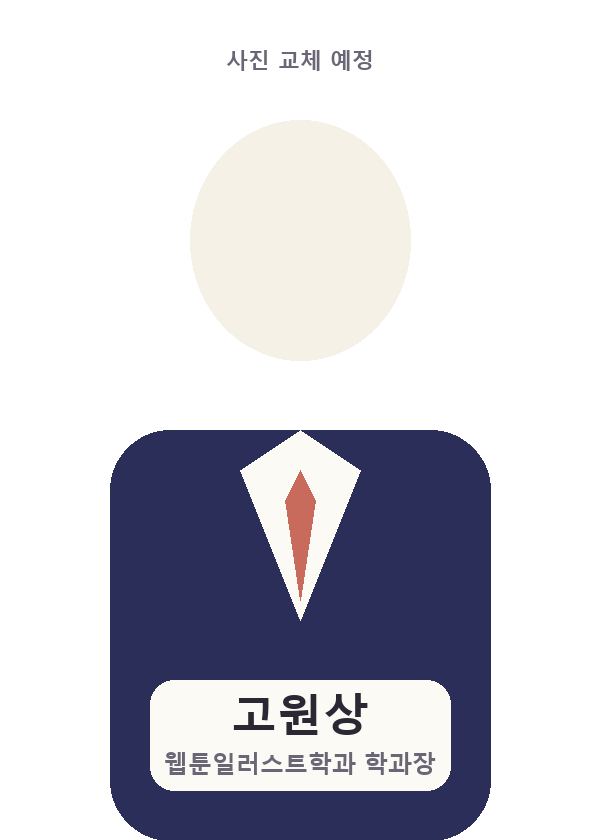
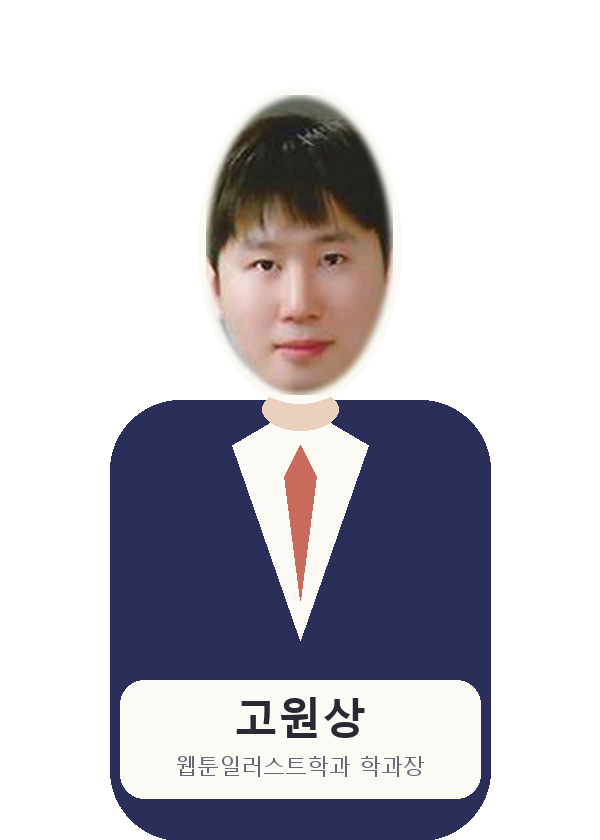
feat(gtec001): 개회식 진행자 — 고원상 학과장 실제 얼굴 초상, 졸업전시 위원장 안소희(작가 캐릭터)로 교체, 호칭 변경

diff --git a/경기과학기술대학교/gtec001/site/src/pages/GalleryPage.tsx b/경기과학기술대학교/gtec001/site/src/pages/GalleryPage.tsx
@@ -114,7 +114,7 @@ export default function GalleryPage() {
         <div className="drawer-h"><span>부스로 바로 가기</span><button className="panel-x" onClick={() => setDrawer(false)}>✕</button></div>
         <div className="drawer-list">
           <button onClick={() => { worldRef.current?.teleportLobby(); setDrawer(false); }}><b>⌂ 로비 · 입구</b></button>
-          <button onClick={() => { setDrawer(false); setCeremony(true); }}><b>🎤 개회식 안내</b><span>학과장 · 사회자</span></button>
+          <button onClick={() => { setDrawer(false); setCeremony(true); }}><b>🎤 개회식 안내</b><span>학과장 · 졸업전시 위원장</span></button>
           <button onClick={() => nav("/photo")}><b>📷 포토존</b><span>작가 캐릭터와 사진 찍기</span></button>
           <button onClick={() => nav("/guestbook")}><b>✎ 방명록</b><span>한마디 남기기</span></button>
           {DEPTS.map((d) => (
@@ -134,7 +134,7 @@ export default function GalleryPage() {
   );
 }
 
-// 개회식: 학과장과 사회자가 번갈아 진행. 한 줄씩 넘긴다.
+// 개회식: 학과장과 졸업전시 위원장이 번갈아 진행. 한 줄씩 넘긴다.
 function CeremonyPanel({ onClose, onEnter }: { onClose: () => void; onEnter: () => void }) {
   const [i, setI] = useState(0);
   const cur = CEREMONY[i]; const h = hostOf(cur.who); const last = i === CEREMONY.length - 1;
@@ -149,7 +149,7 @@ function CeremonyPanel({ onClose, onEnter }: { onClose: () => void; onEnter: () 
           {!last ? <button className="btn primary small" onClick={() => setI(i + 1)}>다음 →</button> : <button className="btn primary small" onClick={onEnter}>전시장 입장 → 로비로</button>}
           <button className="btn small ghost" onClick={onEnter}>건너뛰고 입장</button>
         </div>
-        <p className="small">학과장·사회자 사진은 public/hosts/dean.png · mc.png 로 교체 예정입니다.</p>
+        <p className="small">진행: 학과장 고원상 · 졸업전시 위원장 안소희(웹툰 「좀순愛」 작가)</p>
       </div>
     </div>
   );

diff --git a/경기과학기술대학교/gtec001/site/src/pages/HomePage.tsx b/경기과학기술대학교/gtec001/site/src/pages/HomePage.tsx
@@ -76,7 +76,7 @@ export default function HomePage() {
           <div className="hosts">{HOSTS.map((h) => <div key={h.id} className="host on"><img src={h.img} alt={h.name} /><b>{h.name}</b><span>{h.role}</span></div>)}</div>
           <div>
             <div className="eyebrow">Ceremony</div>
-            <h2 className="h2">학과장과 사회자가 개회식을 진행합니다</h2>
+            <h2 className="h2">학과장과 졸업전시 위원장이 개회식을 진행합니다</h2>
             <p className="lead">전시장 입구에서 두 분이 기다립니다. 눌러서 개회식 안내를 듣고 로비로 들어가세요. 로비 왼쪽 포토존에서는 작가 캐릭터와 사진을 찍을 수 있습니다.</p>
             <div className="row"><Link to="/gallery" className="btn primary">입구에서 개회식 보기 →</Link><Link to="/photo" className="btn">📷 포토존</Link></div>
           </div>

diff --git a/경기과학기술대학교/gtec001/site/scripts/make_hosts.py b/경기과학기술대학교/gtec001/site/scripts/make_hosts.py
@@ -1,0 +1,61 @@
+"""개회식 진행 캐릭터 초상 — 학과장 고원상(본인 사진 얼굴 + 정장 몸), 졸업전시 위원장 안소희(작가 캐릭터 카드)
+→ public/hosts/dean.png · public/hosts/mc.png (600×840, 투명 배경)   실행: python -X utf8 scripts/make_hosts.py"""
+from PIL import Image, ImageDraw, ImageFont, ImageFilter, ImageOps, ImageEnhance
+import os, cv2, numpy as np
+HERE = os.path.dirname(os.path.abspath(__file__)); SITE = os.path.join(HERE, "..")
+PHOTO = os.path.join(SITE, "..", "..", "KakaoTalk_20261024_124652097.jpg")
+AVATAR = os.path.join(SITE, "public", "artists", "we18", "avatar.jpg")
+W, H = 600, 840
+F = lambda f, s: ImageFont.truetype(f"C:/Windows/Fonts/{f}", s)
+ink = (43, 40, 51, 255); soft = (107, 102, 117, 255); cream = (252, 250, 245, 255)
+
+def plate(d, name, role, y=680, color=cream):
+    d.rounded_rectangle((120, y, 480, y + 118), radius=24, fill=color)
+    d.text((300, y + 36), name, font=F("malgunbd.ttf", 44), fill=ink, anchor="mm")
+    d.text((300, y + 86), role, font=F("malgun.ttf", 22), fill=soft, anchor="mm")
+
+# ---------- 학과장: 사진에서 얼굴만 ----------
+ph = ImageOps.exif_transpose(Image.open(PHOTO)).convert("RGB")
+arr = cv2.cvtColor(np.array(ph), cv2.COLOR_RGB2BGR)
+faces = []
+try:
+    casc = cv2.CascadeClassifier(cv2.data.haarcascades + "haarcascade_frontalface_default.xml")
+    faces = casc.detectMultiScale(cv2.cvtColor(arr, cv2.COLOR_BGR2GRAY), 1.1, 4)
+except Exception as ex: print("얼굴 검출 모듈 없음 → 증명사진 기준 고정 좌표 사용:", ex)
+if len(faces): x, y, w, h = max(faces, key=lambda f: f[2] * f[3])
+else: x, y, w, h = int(ph.width * 0.30), int(ph.height * 0.17), int(ph.width * 0.43), int(ph.height * 0.47)  # 증명사진(205×273) 얼굴 위치
+# 얼굴 상자보다 넉넉히(머리카락·턱 포함) 타원으로 자른다
+cx, cy = x + w / 2, y + h * 0.5; rw, rh = w * 0.72, h * 0.95
+box = (int(cx - rw), int(cy - rh - h * 0.05), int(cx + rw), int(cy + rh))
+box = (max(0, box[0]), max(0, box[1]), min(ph.width, box[2]), min(ph.height, box[3]))
+if not len(faces): box = (52, 16, 158, 186)  # 증명사진: 머리 윗부분~턱, 어깨·정장은 제외("얼굴만")
+face = ph.crop(box)
+# 작은 증명사진이라 4배 확대 + 약간의 선명도
+face = face.resize((face.width * 4, face.height * 4), Image.LANCZOS); face = ImageEnhance.Sharpness(face).enhance(1.3)
+target_h = 300; s = target_h / face.height; face = face.resize((int(face.width * s), target_h), Image.LANCZOS)
+mask = Image.new("L", face.size, 0); ImageDraw.Draw(mask).ellipse((2, 2, face.width - 3, face.height - 3), fill=255); mask = mask.filter(ImageFilter.GaussianBlur(3))
+face.putalpha(mask)
+im = Image.new("RGBA", (W, H), (0, 0, 0, 0)); d = ImageDraw.Draw(im)
+# 몸: 남색 정장 + 흰 셔츠 + 넥타이(기존 자리표시와 같은 실루엣)
+d.rounded_rectangle((110, 400, 490, 840), radius=70, fill=(43, 46, 88, 255))
+d.polygon([(300, 405), (232, 445), (300, 640), (368, 445)], fill=(252, 250, 245, 255))
+d.polygon([(300, 445), (284, 476), (300, 600), (316, 476)], fill=(200, 107, 92, 255))
+d.ellipse((262, 388, 338, 430), fill=(236, 208, 190, 255))  # 목
+# 얼굴 뒤 흰 테두리(스티커 느낌)
+ring = Image.new("RGBA", (W, H), (0, 0, 0, 0)); rd = ImageDraw.Draw(ring)
+fx, fy = int(300 - face.width / 2), int(395 - face.height)
+rd.ellipse((fx - 8, fy - 8, fx + face.width + 8, fy + face.height + 8), fill=(252, 250, 245, 255)); im = Image.alpha_composite(im, ring)
+im.alpha_composite(face, (fx, fy)); d = ImageDraw.Draw(im)
+plate(d, "고원상", "웹툰일러스트학과 학과장")
+im.save(os.path.join(SITE, "public", "hosts", "dean.png")); print("dean ok, face box", box)
+
+# ---------- 졸업전시 위원장 안소희: 작가 캐릭터 카드 ----------
+av = Image.open(AVATAR).convert("RGB").resize((470, 470), Image.LANCZOS)
+im2 = Image.new("RGBA", (W, H), (0, 0, 0, 0)); d2 = ImageDraw.Draw(im2)
+d2.rounded_rectangle((50, 40, 550, 640), radius=40, fill=cream)
+d2.rounded_rectangle((50, 40, 550, 70), radius=14, fill=(233, 138, 168, 255))  # 웹툰 분홍 띠
+card = Image.new("RGBA", av.size, (0, 0, 0, 0)); cm = Image.new("L", av.size, 0); ImageDraw.Draw(cm).rounded_rectangle((0, 0, 469, 469), radius=30, fill=255); card.paste(av, (0, 0)); card.putalpha(cm)
+im2.alpha_composite(card, (65, 95)); d2 = ImageDraw.Draw(im2)
+d2.text((300, 605), "웹툰 「좀순愛」 작가 · 부스 WE18", font=F("malgun.ttf", 22), fill=soft, anchor="mm")
+plate(d2, "안소희", "졸업전시 위원장")
+im2.save(os.path.join(SITE, "public", "hosts", "mc.png")); print("mc ok")

diff --git a/경기과학기술대학교/gtec001/process.md b/경기과학기술대학교/gtec001/process.md
@@ -28,6 +28,7 @@
 - 00:00 사이트 소스 16파일 작성, tsc 통과. 첫 스크린샷에서 표지가 책등으로 나와 히어로 깨짐 + 3D 시작 시점이 뒤(입구 벽)를 봄 → 수정. 히어로 보조 버튼 글자색 보정.
 - 00:10 재검수 통과. 문서(README·자료정리·기획서·대본·process·wiki) 작성. 00:20 사용자 미리보기 안내.
 - 01:20 휴대폰 미리보기 QR 3장(`qr/`, PC 주소 192.168.42.36:5201) 생성, 입구 QR 첨부해 사용자 메일로 링크 발송. 부하 시험(요청 #7)과 포토존 QR(요청 #8) 반영.
+- 13:30 진행자 교체(요청 #12·#13): 학과장 고원상 = 본인 증명사진(KakaoTalk_20261024_124652097.jpg, 205×273)에서 얼굴만 타원으로 잘라 정장 몸 위에(`scripts/make_hosts.py`, OpenCV 5 에 CascadeClassifier 가 없어 고정 좌표). 사회자 → **졸업전시 위원장 안소희**(작가 프로필 캐릭터 카드, 부스 WE18). hosts.json 이름·호칭·개회식 첫 대사·입구 말풍선 수정, 화면의 "사회자" 표기 전부 "졸업전시 위원장"으로.
 - 13:10 사용자 "전시장에 안 들어가져" → 공개 주소를 PC·iPhone 에뮬레이션으로 점검: 번들 200, 콘솔 오류 0, 3D 정상. 원인 후보는 배포 직후 옛 index.html 캐시(max-age 600)가 사라진 번들을 가리키는 것 → index.html 에 스크립트 로드 실패 시 1회 주소 바꿔 재요청하는 가드 추가, WebGL 생성 실패 시 안내+2D 링크 표시. 재푸시.
 - 12:45 황지영 교수님 축전 v4(요청 "포스터 v2로 해서 축전 글씨랑"): 바탕을 퓨어데이 가족 영화 포스터 v2(이마리 중심, `Pureday/M_charactor_02/images/2026-10-24/조씨 가족 영화 포스터 v1/jo_family_movie_poster_v2.png`)로 바꾸고 축전 글(Move : 이소 졸업전시를 축하합니다 / 졸업은 휴재가 아니라 본격 연재의 시작입니다 / 첫 화를 응원합니다 / 황지영 드림)을 포스터 아래 제목 여백에 배치(`scripts/make_tribute_hwang_v4.py`, 크림 밴드로 가독성 확보). v3 이미지는 `site/scripts/_prev/tribute_hwang_v3_20261024_1214.jpg` 보존.
 - 12:14 황지영 교수님 축전 v3(문구 수정 요청): 본문 두 줄을 "졸업은 휴재가 아니라 본격 연재의 시작입니다. / 첫 화를 응원합니다."로 교체(`scripts/make_tribute_hwang.py`, 긴 줄은 폭 1060px 안에 자동 축소 — 70pt 그대로 931px). 이전 v2 이미지는 `site/scripts/_prev/tribute_hwang_v2_20261024_1024.jpg` 로 보존, `public/catalog/tribute_hwang.jpg` 교체(dev 서버는 즉시 반영, dist 는 재빌드 필요).
